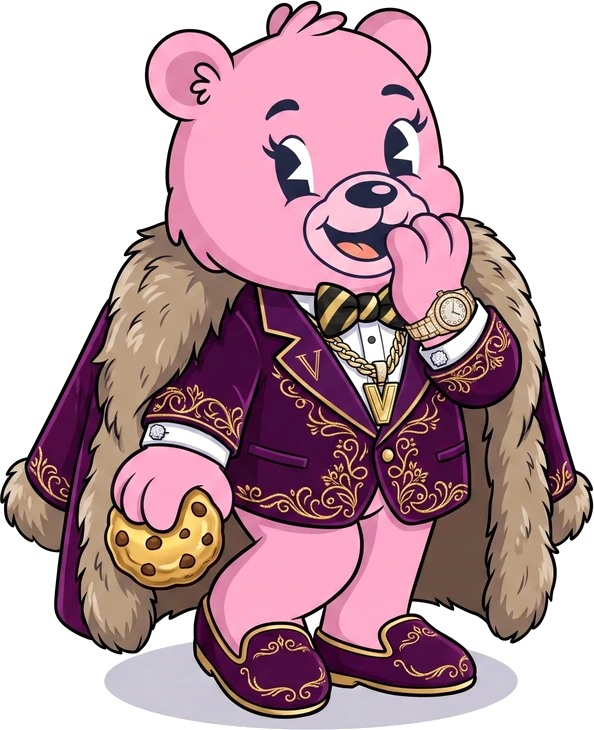
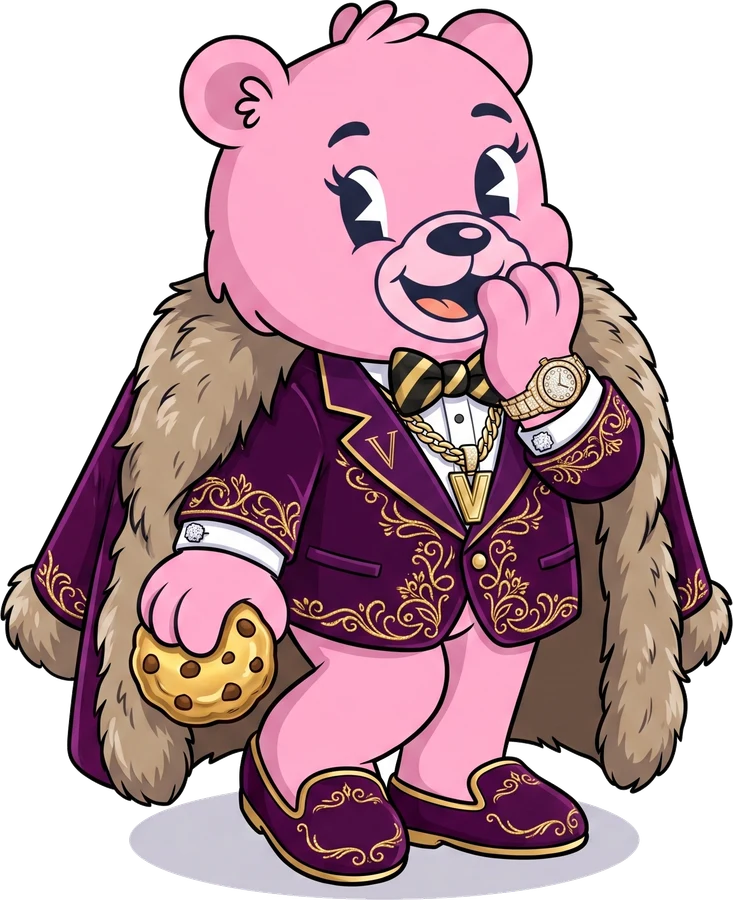
Ojos de la Bearnie VIP y colores de la mesa de la pasteleria
Los ojos de la Bearnie VIP salian negros: al recortarle el fondo volvi
transparente TODO pixel casi blanco, y los brillos de los ojos (y los dientes,
y la camisa) son blancos. Sobre el fondo oscuro del Golden Club quedaban como
agujeros. Ahora el fondo se borra con un relleno por inundacion desde los
bordes, asi solo desaparece el blanco EXTERIOR y los blancos de dentro se
quedan. Se hace a resolucion completa y se reescala despues, para que el borde
del alfa quede suavizado.

Pasteleria: los frascos de la mesa parecian bloqueados. No era el color, era el
estado `.inactivo` (lo tienes pero aun no toca: falta galleta, o falta la crema
debajo), que iba con grayscale(.7) y opacity .4 — practicamente igual que
`.bloqueado`, el de los que aun no has desbloqueado. Ahora `.inactivo` mantiene
el color y solo se apaga un punto; `.bloqueado` sigue en gris con su candado.

De paso, el contenido de los frascos usa las mismas formas y colores que los
toppings de la galleta (gota de chocolate con lomo brillante, cilindros pastel,
perlas con especular, fideos) y la crema llena el tarro con su menisco, en vez
de ser un blob pequeno y apagado en el fondo.

diff --git a/public/juegos/pasteleria/css/styles.css b/public/juegos/pasteleria/css/styles.css
@@ -1076,39 +1076,86 @@ body::after {
   border-radius: 5px;
   z-index: 2;
 }
+/* Contenido de los frascos: mismas formas y colores que los toppings de la
+   galleta (ver js/ui.js), para que reconozcas de un vistazo qué estás cogiendo. */
 .mini-chip {
   position: absolute;
-  width: 8px;
+  width: 8.5px;
   height: 11px;
-  border-radius: 45%;
-  background: linear-gradient(160deg, #4a2c17, #2e1a0c);
+  border-radius: 46% 46% 50% 50% / 38% 38% 62% 62%;
+  background:
+    radial-gradient(circle at 34% 28%, rgba(255, 255, 255, 0.5) 0 12%, transparent 44%),
+    linear-gradient(158deg, #6b452a 8%, #4a2c18 48%, #2b1809 92%);
+  border: 1px solid rgba(20, 12, 6, 0.45);
+  box-shadow: 0 1px 1.5px rgba(27, 34, 51, 0.3);
 }
 .mini-chip.c1 { left: 18%; bottom: 12%; transform: rotate(-16deg); }
 .mini-chip.c2 { left: 46%; bottom: 26%; transform: rotate(22deg); }
 .mini-chip.c3 { left: 62%; bottom: 8%; transform: rotate(-30deg); }
-.mini-chip.col1 { left: 18%; bottom: 12%; transform: rotate(-16deg); background: var(--rosa); }
-.mini-chip.col2 { left: 46%; bottom: 26%; transform: rotate(22deg); background: #8fd0f0; }
-.mini-chip.col3 { left: 62%; bottom: 8%; transform: rotate(-30deg); background: var(--menta); }
-.mini-chip.pe1 { left: 18%; bottom: 12%; transform: rotate(-16deg); background: #fff3da; border-radius: 50%; }
-.mini-chip.pe2 { left: 46%; bottom: 26%; transform: rotate(22deg); background: #ffe9c8; border-radius: 50%; }
-.mini-chip.pe3 { left: 62%; bottom: 8%; transform: rotate(-30deg); background: #fdf6ef; border-radius: 50%; }
-.mini-chip.fr1 { left: 18%; bottom: 12%; transform: rotate(-16deg); background: #f28ba8; }
-.mini-chip.fr2 { left: 46%; bottom: 26%; transform: rotate(22deg); background: #e56a8a; }
-.mini-chip.fr3 { left: 62%; bottom: 8%; transform: rotate(-30deg); background: #f7a8c0; }
+/* chispas de colores y de fresa: cilindro pastel con luz arriba */
+.mini-chip.col1, .mini-chip.col2, .mini-chip.col3,
+.mini-chip.fr1, .mini-chip.fr2, .mini-chip.fr3 {
+  width: 9px;
+  height: 5.5px;
+  border-radius: 3px;
+  border: 1px solid rgba(27, 34, 51, 0.3);
+  box-shadow: inset 0 1.5px 0 rgba(255, 255, 255, 0.6), 0 1px 1.5px rgba(27, 34, 51, 0.25);
+}
+.mini-chip.col1 { left: 16%; bottom: 12%; transform: rotate(-16deg); background: #f2a7c0; }
+.mini-chip.col2 { left: 44%; bottom: 28%; transform: rotate(22deg); background: #8fd0f0; }
+.mini-chip.col3 { left: 62%; bottom: 9%; transform: rotate(-30deg); background: #bfe3d0; }
+/* perlas: esfera con especular */
+.mini-chip.pe1, .mini-chip.pe2, .mini-chip.pe3 {
+  width: 8px;
+  height: 8px;
+  border-radius: 50%;
+  border: 1px solid rgba(27, 34, 51, 0.26);
+  box-shadow: inset -1px -1px 2px rgba(214, 160, 80, 0.5), 0 1px 1.5px rgba(27, 34, 51, 0.25);
+}
+.mini-chip.pe1 { left: 17%; bottom: 12%; background: radial-gradient(circle at 32% 28%, #fff 0 22%, #fff3da 70%); }
+.mini-chip.pe2 { left: 45%; bottom: 28%; background: radial-gradient(circle at 32% 28%, #fff 0 22%, #ffe9c4 70%); }
+.mini-chip.pe3 { left: 63%; bottom: 9%; background: radial-gradient(circle at 32% 28%, #fff 0 22%, #fdf6ef 70%); }
+.mini-chip.fr1 { left: 16%; bottom: 12%; transform: rotate(-16deg); background: #f7a8c0; }
+.mini-chip.fr2 { left: 44%; bottom: 28%; transform: rotate(22deg); background: #e56a8a; }
+.mini-chip.fr3 { left: 62%; bottom: 9%; transform: rotate(-30deg); background: #f28ba8; }
+/* La crema llena el tarro y se le ve el menisco: así el color canta y sabes cuál
+   es sin leer la etiqueta. Antes era un blob pequeño y apagado en el fondo. */
 .mini-glaseado {
   position: absolute;
-  inset: 30% 12% 14% 12%;
-  border-radius: 40% 44% 46% 42%;
+  inset: 22% 5% 3% 5%;
+  border-radius: 46% 46% 8px 8px / 22% 22% 8px 8px;
+  border: 1px solid rgba(27, 34, 51, 0.28);
+  box-shadow: inset 0 -3px 5px rgba(27, 34, 51, 0.16);
 }
-.mini-glaseado.rosa { background: linear-gradient(180deg, #f7bcd0, var(--rosa)); }
-.mini-glaseado.vainilla { background: linear-gradient(180deg, #fff0cf, #f4d99f); }
-.mini-glaseado.choco { background: linear-gradient(180deg, #7a4b2b, #5d3a20); }
-.mini-glaseado.menta { background: linear-gradient(180deg, #cdeede, #9fd4b8); }
-.mini-spr { position: absolute; width: 9px; height: 3px; border-radius: 2px; }
-.mini-spr.s1 { left: 18%; bottom: 30%; transform: rotate(24deg); background: var(--coral); }
-.mini-spr.s2 { left: 44%; bottom: 16%; transform: rotate(-32deg); background: #8fd0f0; }
-.mini-spr.s3 { left: 58%; bottom: 38%; transform: rotate(60deg); background: var(--dorado); }
+.mini-glaseado::after { /* brillo del menisco */
+  content: '';
+  position: absolute;
+  left: 16%;
+  top: 8%;
+  width: 34%;
+  height: 16%;
+  border-radius: 50%;
+  background: rgba(255, 255, 255, 0.55);
+}
+.mini-glaseado.rosa { background: linear-gradient(180deg, #f9c6d8, #f2a7c0 60%, #e88fae); }
+.mini-glaseado.vainilla { background: linear-gradient(180deg, #fff4d9, #f7dfa8 60%, #eecf8c); }
+.mini-glaseado.choco { background: linear-gradient(180deg, #8a5738, #6b4022 60%, #4f2f18); }
+.mini-glaseado.menta { background: linear-gradient(180deg, #d8f3e6, #a9dcc2 60%, #8ccbac); }
+.mini-glaseado.choco::after { background: rgba(255, 255, 255, 0.35); }
+/* lluvia de colores: fideos finos */
+.mini-spr {
+  position: absolute;
+  width: 9px;
+  height: 3.5px;
+  border-radius: 2px;
+  border: 0.5px solid rgba(27, 34, 51, 0.28);
+  box-shadow: inset 0 1px 0 rgba(255, 255, 255, 0.6);
+}
+.mini-spr.s1 { left: 16%; bottom: 30%; transform: rotate(24deg); background: #ff8f6e; }
+.mini-spr.s2 { left: 42%; bottom: 15%; transform: rotate(-32deg); background: #8fd0f0; }
+.mini-spr.s3 { left: 57%; bottom: 38%; transform: rotate(60deg); background: #f7d060; }
 
+/* BLOQUEADO = aún no lo has desbloqueado. Gris del todo + candado. */
 .bloqueado { filter: grayscale(1); opacity: 0.45; }
 .bloqueado .candado {
   position: absolute;
@@ -1118,7 +1165,12 @@ body::after {
   justify-content: center;
   opacity: 0.9;
 }
-.frasco.inactivo, .bola-masa.inactivo { opacity: 0.4; filter: grayscale(0.7); }
+/* INACTIVO = lo tienes, pero ahora no toca (aún no hay galleta, o falta la
+   crema debajo). Iba con grayscale(.7) y opacity .4, o sea casi igual que
+   .bloqueado: parecía que estuvieran todos con candado y no se veía de qué
+   color era cada crema. Ahora mantiene el color y solo se apaga un punto. */
+.frasco.inactivo, .bola-masa.inactivo { opacity: 0.82; filter: saturate(0.85) brightness(0.94); }
+.frasco.inactivo .etiqueta, .bola-masa.inactivo .etiqueta { opacity: 0.5; }
 
 /* fila de la tabla */
 #fila-tabla {